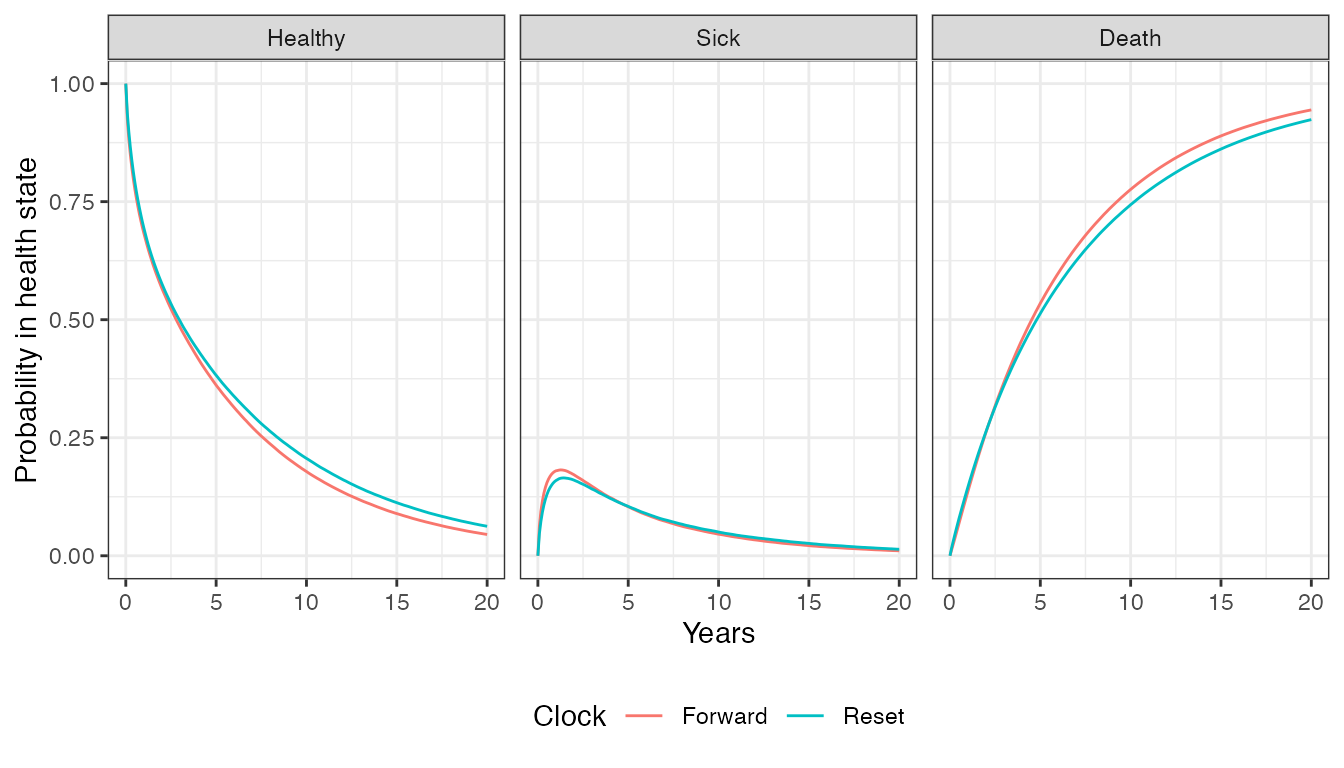
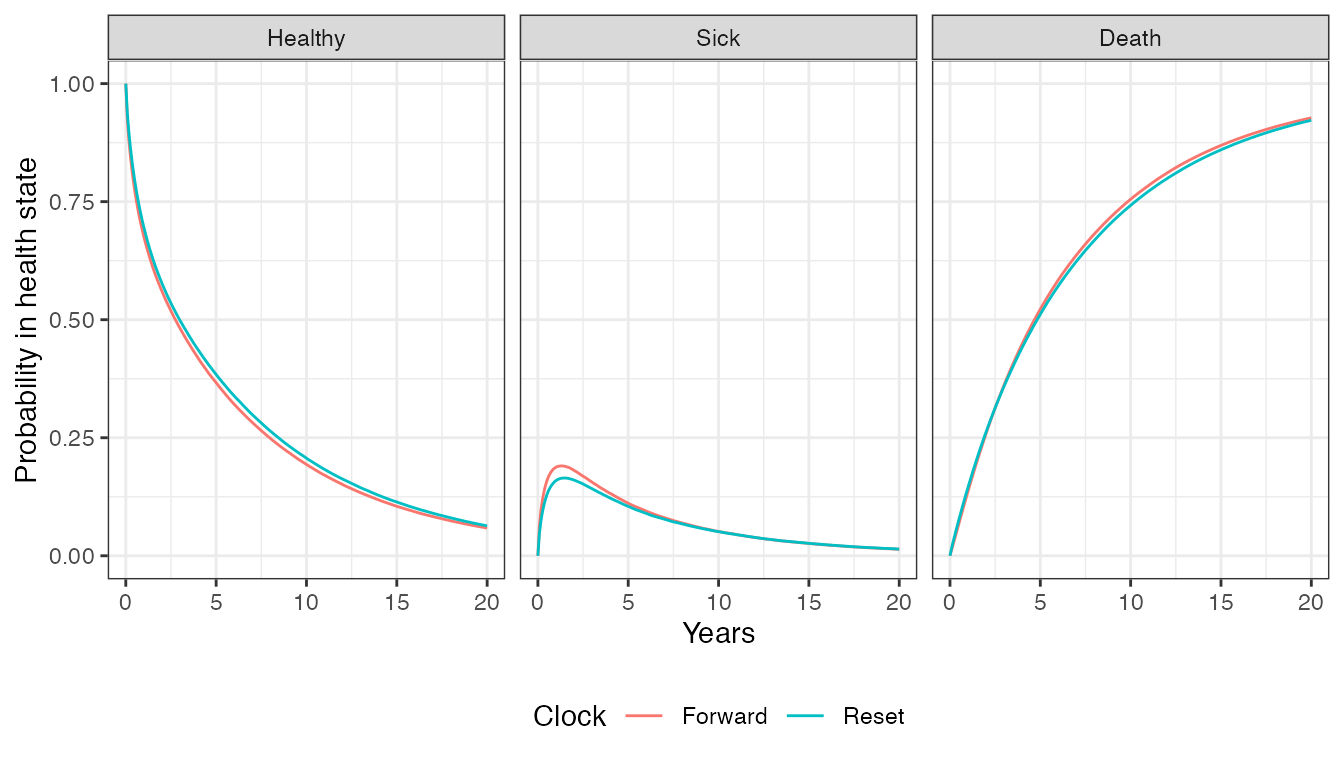
Rebuild mstate vignette

diff --git a/docs/dev/articles/mstate.html b/docs/dev/articles/mstate.html
@@ -124,7 +124,7 @@
     <div class="page-header toc-ignore">
       <h1 data-toc-skip>Markov and semi-Markov multi-state models</h1>
             
-            <h4 class="date">2021-08-11</h4>
+            <h4 class="date">2021-08-12</h4>
       
       <small class="dont-index">Source: <a href="https://github.com/hesim-dev/hesim/blob/master/vignettes/mstate.Rmd"><code>vignettes/mstate.Rmd</code></a></small>
       <div class="hidden name"><code>mstate.Rmd</code></div>
@@ -208,7 +208,7 @@
 <span class="va">n_trans</span> <span class="op">&lt;-</span> <span class="fu"><a href="https://rdrr.io/r/base/Extremes.html">max</a></span><span class="op">(</span><span class="va">tmat</span>, na.rm <span class="op">=</span> <span class="cn">TRUE</span><span class="op">)</span> <span class="co"># Number of transitions</span>
 <span class="va">wei_fits_cr</span> <span class="op">&lt;-</span> <span class="fu"><a href="https://rdrr.io/r/base/vector.html">vector</a></span><span class="op">(</span>length <span class="op">=</span> <span class="va">n_trans</span>, mode <span class="op">=</span> <span class="st">"list"</span><span class="op">)</span> 
 <span class="kw">for</span> <span class="op">(</span><span class="va">i</span> <span class="kw">in</span> <span class="fl">1</span><span class="op">:</span><span class="fu"><a href="https://rdrr.io/r/base/length.html">length</a></span><span class="op">(</span><span class="va">wei_fits_cr</span><span class="op">)</span><span class="op">)</span><span class="op">{</span>
-  <span class="va">wei_fits_cr</span><span class="op">[[</span><span class="va">i</span><span class="op">]</span><span class="op">]</span> <span class="op">&lt;-</span> <span class="fu"><a href="https://rdrr.io/pkg/flexsurv/man/flexsurvreg.html">flexsurvreg</a></span><span class="op">(</span><span class="fu"><a href="https://rdrr.io/pkg/survival/man/Surv.html">Surv</a></span><span class="op">(</span><span class="va">years</span>, <span class="va">status</span><span class="op">)</span> <span class="op">~</span> <span class="fu"><a href="https://rdrr.io/r/base/factor.html">factor</a></span><span class="op">(</span><span class="va">strategy_id</span><span class="op">)</span>, 
+  <span class="va">wei_fits_cr</span><span class="op">[[</span><span class="va">i</span><span class="op">]</span><span class="op">]</span> <span class="op">&lt;-</span> <span class="fu"><a href="https://rdrr.io/pkg/flexsurv/man/flexsurvreg.html">flexsurvreg</a></span><span class="op">(</span><span class="fu">Surv</span><span class="op">(</span><span class="va">years</span>, <span class="va">status</span><span class="op">)</span> <span class="op">~</span> <span class="fu"><a href="https://rdrr.io/r/base/factor.html">factor</a></span><span class="op">(</span><span class="va">strategy_id</span><span class="op">)</span>, 
                                   data <span class="op">=</span> <span class="va">mstate3_exdata</span><span class="op">$</span><span class="va">transitions</span>, 
                                   subset <span class="op">=</span> <span class="op">(</span><span class="va">trans</span> <span class="op">==</span> <span class="va">i</span><span class="op">)</span> , 
                                   dist <span class="op">=</span> <span class="st">"weibull"</span><span class="op">)</span> 
@@ -218,7 +218,7 @@
 <div class="sourceCode" id="cb7"><pre class="downlit sourceCode r">
 <code class="sourceCode R"><span class="va">wei_fits_cf</span> <span class="op">&lt;-</span> <span class="fu"><a href="https://rdrr.io/r/base/vector.html">vector</a></span><span class="op">(</span>length <span class="op">=</span> <span class="va">n_trans</span>, mode <span class="op">=</span> <span class="st">"list"</span><span class="op">)</span> 
 <span class="kw">for</span> <span class="op">(</span><span class="va">i</span> <span class="kw">in</span> <span class="fl">1</span><span class="op">:</span><span class="fu"><a href="https://rdrr.io/r/base/length.html">length</a></span><span class="op">(</span><span class="va">wei_fits_cf</span><span class="op">)</span><span class="op">)</span><span class="op">{</span>
-  <span class="va">wei_fits_cf</span><span class="op">[[</span><span class="va">i</span><span class="op">]</span><span class="op">]</span> <span class="op">&lt;-</span> <span class="fu"><a href="https://rdrr.io/pkg/flexsurv/man/flexsurvreg.html">flexsurvreg</a></span><span class="op">(</span><span class="fu"><a href="https://rdrr.io/pkg/survival/man/Surv.html">Surv</a></span><span class="op">(</span><span class="va">Tstart</span>, <span class="va">Tstop</span>, <span class="va">status</span><span class="op">)</span> <span class="op">~</span> <span class="fu"><a href="https://rdrr.io/r/base/factor.html">factor</a></span><span class="op">(</span><span class="va">strategy_id</span><span class="op">)</span>, 
+  <span class="va">wei_fits_cf</span><span class="op">[[</span><span class="va">i</span><span class="op">]</span><span class="op">]</span> <span class="op">&lt;-</span> <span class="fu"><a href="https://rdrr.io/pkg/flexsurv/man/flexsurvreg.html">flexsurvreg</a></span><span class="op">(</span><span class="fu">Surv</span><span class="op">(</span><span class="va">Tstart</span>, <span class="va">Tstop</span>, <span class="va">status</span><span class="op">)</span> <span class="op">~</span> <span class="fu"><a href="https://rdrr.io/r/base/factor.html">factor</a></span><span class="op">(</span><span class="va">strategy_id</span><span class="op">)</span>, 
                                   data <span class="op">=</span> <span class="va">mstate3_exdata</span><span class="op">$</span><span class="va">transitions</span>, 
                                   subset <span class="op">=</span> <span class="op">(</span><span class="va">trans</span> <span class="op">==</span> <span class="va">i</span><span class="op">)</span> , 
                                   dist <span class="op">=</span> <span class="st">"weibull"</span><span class="op">)</span> 
@@ -267,12 +267,12 @@
                         by <span class="op">=</span> <span class="fu"><a href="https://rdrr.io/r/base/c.html">c</a></span><span class="op">(</span><span class="st">"strategies"</span>, <span class="st">"patients"</span><span class="op">)</span><span class="op">)</span>
 <span class="fu"><a href="https://rdrr.io/r/utils/head.html">head</a></span><span class="op">(</span><span class="va">transmod_data</span><span class="op">)</span></code></pre></div>
 <pre><code>##    strategy_id patient_id strategy_name      age female
-## 1:           1          1           SOC 53.94634      1
-## 2:           1          2           SOC 47.52646      0
-## 3:           1          3           SOC 57.29777      0
-## 4:           1          4           SOC 49.85960      1
-## 5:           1          5           SOC 34.00201      1
-## 6:           1          6           SOC 45.67736      0</code></pre>
+## 1:           1          1           SOC 42.09645      1
+## 2:           1          2           SOC 45.16086      1
+## 3:           1          3           SOC 41.61453      0
+## 4:           1          4           SOC 34.26582      1
+## 5:           1          5           SOC 45.86079      0
+## 6:           1          6           SOC 55.38047      0</code></pre>
 <p>“Clock reset” and “clock forward” transition models are created by combining the fitted models and input data with the transition matrix, desired number of PSA samples, the timescale of the model, and the starting age of each patient in the simulation (by default, patients are assumed to live no longer than age 100 in the individual-level simulation).</p>
 <div class="sourceCode" id="cb14"><pre class="downlit sourceCode r">
 <code class="sourceCode R"><span class="va">transmod_cr</span> <span class="op">&lt;-</span> <span class="fu"><a href="../reference/create_IndivCtstmTrans.html">create_IndivCtstmTrans</a></span><span class="op">(</span><span class="va">wei_fits_cr</span>, <span class="va">transmod_data</span>,
@@ -356,12 +356,12 @@
 <span class="va">econmod_cr</span><span class="op">$</span><span class="fu">sim_disease</span><span class="op">(</span><span class="op">)</span>
 <span class="fu"><a href="https://rdrr.io/r/utils/head.html">head</a></span><span class="op">(</span><span class="va">econmod_cr</span><span class="op">$</span><span class="va">disprog_</span><span class="op">)</span></code></pre></div>
 <pre><code>##    sample strategy_id patient_id grp_id from to final time_start time_stop
-## 1:      1           1          1      1    1  2     0   0.000000  9.322823
-## 2:      1           1          1      1    2  1     0   9.322823 10.450075
-## 3:      1           1          1      1    1  2     0  10.450075 13.114860
-## 4:      1           1          1      1    2  1     0  13.114860 13.337263
-## 5:      1           1          1      1    1  2     0  13.337263 14.865999
-## 6:      1           1          1      1    2  1     0  14.865999 17.163968</code></pre>
+## 1:      1           1          1      1    1  2     0   0.000000 7.8823463
+## 2:      1           1          1      1    2  1     0   7.882346 8.2162231
+## 3:      1           1          1      1    1  2     0   8.216223 8.2924463
+## 4:      1           1          1      1    2  3     1   8.292446 8.8287218
+## 5:      1           1          2      1    1  3     1   0.000000 0.6634458
+## 6:      1           1          3      1    1  2     0   0.000000 0.7459449</code></pre>
 <div class="sourceCode" id="cb21"><pre class="downlit sourceCode r">
 <code class="sourceCode R"><span class="co"># "Clock forward"</span>
 <span class="va">econmod_cf</span><span class="op">$</span><span class="fu">sim_disease</span><span class="op">(</span><span class="op">)</span></code></pre></div>
@@ -410,12 +410,12 @@
 <code class="sourceCode R"><span class="va">econmod_cr</span><span class="op">$</span><span class="fu">sim_qalys</span><span class="op">(</span>dr <span class="op">=</span> <span class="fu"><a href="https://rdrr.io/r/base/c.html">c</a></span><span class="op">(</span><span class="fl">0</span>,<span class="fl">.03</span><span class="op">)</span><span class="op">)</span>
 <span class="fu"><a href="https://rdrr.io/r/utils/head.html">head</a></span><span class="op">(</span><span class="va">econmod_cr</span><span class="op">$</span><span class="va">qalys_</span><span class="op">)</span></code></pre></div>
 <pre><code>##    sample strategy_id grp_id state_id dr    qalys      lys
-## 1:      1           1      1        1  0 3.375242 6.076443
-## 2:      1           1      1        2  0 1.320146 1.325038
-## 3:      1           2      1        1  0 3.852539 6.935721
-## 4:      1           2      1        2  0 1.381887 1.387008
-## 5:      2           1      1        1  0 3.617418 5.739219
-## 6:      2           1      1        2  0 1.190042 1.402935</code></pre>
+## 1:      1           1      1        1  0 4.428423 7.004227
+## 2:      1           1      1        2  0 1.451726 1.578470
+## 3:      1           2      1        1  0 5.718226 9.044249
+## 4:      1           2      1        2  0 1.050737 1.142472
+## 5:      2           1      1        1  0 6.317131 7.610411
+## 6:      2           1      1        2  0 1.021789 1.670533</code></pre>
 <p>Let’s compute means (across the PSA samples) by treatment strategy and health state to see how much each health state contributes to total QALYs.</p>
 <div class="sourceCode" id="cb27"><pre class="downlit sourceCode r">
 <code class="sourceCode R"><span class="va">qalys_summary</span> <span class="op">&lt;-</span> <span class="va">econmod_cr</span><span class="op">$</span><span class="va">qalys_</span><span class="op">[</span>, <span class="fu">.</span><span class="op">(</span>mean <span class="op">=</span> <span class="fu"><a href="https://rdrr.io/r/base/mean.html">mean</a></span><span class="op">(</span><span class="va">qalys</span><span class="op">)</span><span class="op">)</span>,
@@ -433,12 +433,12 @@
 <code class="sourceCode R"><span class="va">econmod_cr</span><span class="op">$</span><span class="fu">sim_costs</span><span class="op">(</span>dr <span class="op">=</span> <span class="fl">0.03</span><span class="op">)</span>
 <span class="fu"><a href="https://rdrr.io/r/utils/head.html">head</a></span><span class="op">(</span><span class="va">econmod_cr</span><span class="op">$</span><span class="va">costs_</span><span class="op">)</span></code></pre></div>
 <pre><code>##    sample strategy_id grp_id state_id   dr category     costs
-## 1:      1           1      1        1 0.03     Drug 24542.053
-## 2:      1           1      1        2 0.03     Drug  5330.405
-## 3:      1           2      1        1 0.03     Drug 54904.957
-## 4:      1           2      1        2 0.03     Drug 10912.824
-## 5:      2           1      1        1 0.03     Drug 23578.434
-## 6:      2           1      1        2 0.03     Drug  5727.166</code></pre>
+## 1:      1           1      1        1 0.03     Drug 27610.571
+## 2:      1           1      1        2 0.03     Drug  6108.276
+## 3:      1           2      1        1 0.03     Drug 68993.671
+## 4:      1           2      1        2 0.03     Drug  8553.587
+## 5:      2           1      1        1 0.03     Drug 29517.949
+## 6:      2           1      1        2 0.03     Drug  6471.188</code></pre>
 </div>
 </div>
 </div>
@@ -450,11 +450,11 @@
 <code class="sourceCode R"><span class="va">ce_sim</span> <span class="op">&lt;-</span> <span class="va">econmod_cr</span><span class="op">$</span><span class="fu">summarize</span><span class="op">(</span><span class="op">)</span>
 <span class="fu"><a href="https://rdrr.io/r/base/format.html">format</a></span><span class="op">(</span><span class="fu"><a href="https://rdrr.io/r/base/summary.html">summary</a></span><span class="op">(</span><span class="va">ce_sim</span>, labels <span class="op">=</span> <span class="va">labs</span><span class="op">)</span><span class="op">)</span></code></pre></div>
 <pre><code>##    Discount rate        Outcome                     SOC                     New
-## 1:          0.00          QALYs       5.11 (2.78, 7.38)       6.11 (3.05, 9.03)
-## 2:          0.03          QALYs       4.13 (2.29, 5.81)       4.73 (2.44, 6.83)
-## 3:          0.03    Costs: Drug 29,981 (25,346, 35,092) 70,012 (59,068, 81,676)
-## 4:          0.03 Costs: Medical    6,692 (5,664, 7,877)    7,525 (6,372, 8,759)
-## 5:          0.03   Costs: total 36,673 (31,065, 42,986) 77,537 (65,397, 90,424)</code></pre>
+## 1:          0.00          QALYs       5.13 (2.75, 7.50)       6.06 (2.98, 8.79)
+## 2:          0.03          QALYs       4.14 (2.27, 5.82)       4.70 (2.41, 6.64)
+## 3:          0.03    Costs: Drug 30,128 (25,130, 35,767) 69,740 (59,060, 82,123)
+## 4:          0.03 Costs: Medical    6,725 (5,637, 7,880)    7,499 (6,356, 8,829)
+## 5:          0.03   Costs: total 36,854 (30,833, 43,653) 77,240 (65,382, 90,823)</code></pre>
 <div class="sourceCode" id="cb32"><pre class="downlit sourceCode r">
 <code class="sourceCode R"><span class="va">cea_out</span> <span class="op">&lt;-</span> <span class="fu"><a href="../reference/cea.html">cea</a></span><span class="op">(</span><span class="va">ce_sim</span>, dr_qalys <span class="op">=</span> <span class="fl">.03</span>, dr_costs <span class="op">=</span> <span class="fl">.03</span><span class="op">)</span>
 <span class="va">cea_pw_out</span> <span class="op">&lt;-</span> <span class="fu"><a href="../reference/cea.html">cea_pw</a></span><span class="op">(</span><span class="va">ce_sim</span>, comparator <span class="op">=</span> <span class="fl">1</span>, dr_qalys <span class="op">=</span> <span class="fl">.03</span>, dr_costs <span class="op">=</span> <span class="fl">.03</span><span class="op">)</span></code></pre></div>
